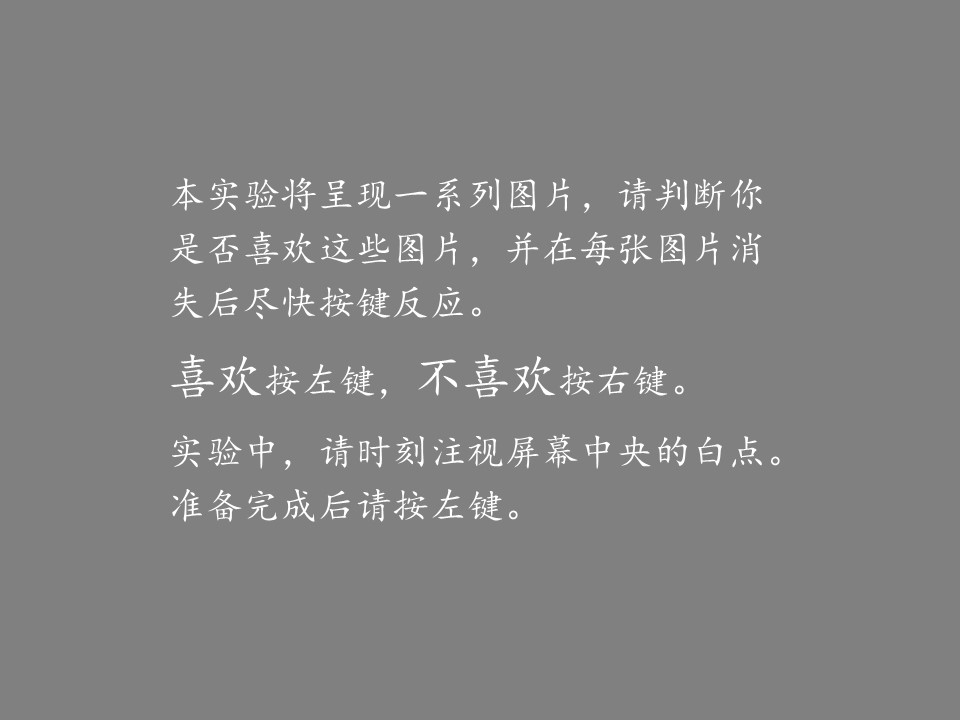
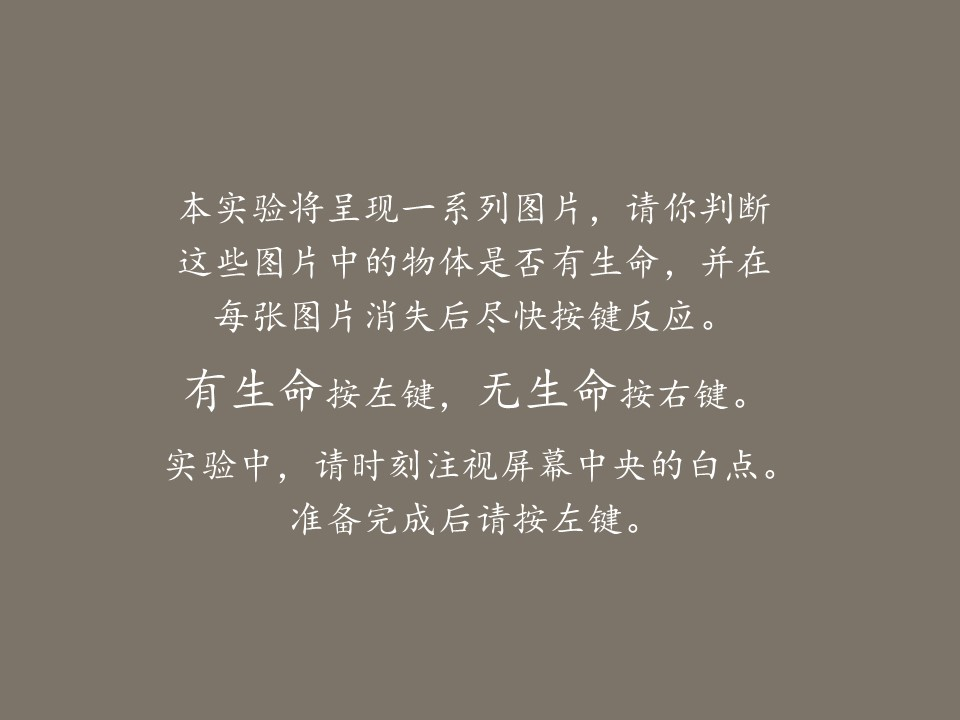
Modify time control in newbinMRItest.m

Changed region(s): [[0.1562, 0.2444, 0.8125, 0.7639]]

diff --git a/newbinMRItest.m b/newbinMRItest.m
@@ -19,9 +19,8 @@ if ~ismember(sessID, 1:1), error('sessID is a integer within [1:1]!');end
 nRun = 10;
 if ~ismember(runID, 1:nRun), error('runID is a integer within [1:10]!'); end
 
-
 %% Data dir 
-workDir = 'H:\NaturalImageData\stimTest';
+workDir = pwd;
 stimDir = fullfile(workDir,'images');
 % Make data dir
 dataDir = fullfile(workDir,'data');
@@ -36,7 +35,7 @@ testDir = fullfile(mriDir,'test');
 if ~exist(testDir,'dir'), mkdir(testDir),end
 
 % Make subject dir
-subDir = fullfile(mriDir,sprintf('sub%02d', subID));
+subDir = fullfile(testDir,sprintf('sub%02d', subID));
 if ~exist(subDir,'dir'), mkdir(subDir),end
 
 % Make session dir
@@ -54,7 +53,6 @@ fixOuterColor = [0 0 0]; % color of fixation circular ring
 whiteFixation = [255 255 255]; % color of fixation circular point
 redFixation = [255 0 0]; % color of fixation circular point
 
-
 % compute image pixel
 pixelPerMilimeterHor = 1024/390;
 pixelPerMilimeterVer = 768/295;
@@ -68,8 +66,7 @@ PsychDefaultSetup(2);% Setup PTB to 'featureLevel' of 2
 KbName('UnifyKeyNames'); % For cross-platform compatibility of keynaming
 startKey = KbName('s');
 escKey = KbName('ESCAPE');
-sameKey = KbName('1!'); % Left hand:1!,2@
-diffKey = KbName('3#'); % Right hand: 3#,4$ 
+cueKey = KbName('1!'); % Left hand:1!,2@
 
 %% Screen setting
 Screen('Preference', 'SkipSyncTests', 2);
@@ -105,7 +102,7 @@ Screen('Flip', wptr);
 while KbCheck(); end
 while true
     [keyIsDown,~,keyCode] = KbCheck();
-    if keyIsDown && keyCode(sameKey), break;
+    if keyIsDown && keyCode(cueKey), break;
     end
 end
 % Show ready signal
@@ -149,7 +146,7 @@ tEnd = trial(:, 1) + 3;
 %% Parms for stimlus presentation and Trials
 flipInterval = Screen('GetFlipInterval', wptr);% get dur of frame
 onDur = 0.5 - 0.5*flipInterval; % on duration for a stimulus
-offDur = 2.5; % off duration for a stimulus
+% offDur = 2.5; % off duration for a stimulus
 beginDur = 2; % beigining fixation duration
 endDur = 2; % ending fixation duration
 
@@ -169,7 +166,7 @@ for t = 1:nTrial
         Screen('DrawDots', wptr, [xCenter,yCenter], fixInnerSize, whiteFixation , [], 2);
         
     elseif trial(t,2) == 1000 % show only red fixation
-        Screen('DrawDots', wptr, [xCenter,yCenter], fixOuterSize, fixOuterColor, [], 2);
+        Screen('DrawDots', wptr, [xCenter,yCenter], fixOuterSize, fixOuterColor, [], 2  );
         Screen('DrawDots', wptr, [xCenter,yCenter], fixInnerSize, redFixation , [], 2);
         
     else % show only red fixation
@@ -186,25 +183,17 @@ for t = 1:nTrial
     
     % Wait response
     while KbCheck(), end % empty the key buffer
-    while GetSecs - tFix < offDur
+    while GetSecs - tStart < tEnd(t)
         [keyIsDown, tKey, keyCode] = KbCheck();       
         if keyIsDown
             if keyCode(escKey), sca; return;
-            elseif keyCode(sameKey),   key = 1;
-            elseif keyCode(diffKey),   key = -1; 
+            elseif keyCode(cueKey),   key = 1;
             else, key = 0; 
             end
             rt = tKey - tFix; % reaction time
             trial(t, 4:5) = [key,rt];
-            break;
         end
     end
-    
-    % wait until tEnd
-    while GetSecs - tStart < tEnd(t)
-        [~, ~, keyCode] = KbCheck();
-        if keyCode(escKey), sca; return; end
-    end    
 end
 
 % Wait ending fixation

diff --git a/binMRItrain.m b/binMRItrain.m
@@ -20,7 +20,7 @@ if ~ismember(runID, 1:10), error('runID is a integer within [1:10]!'); end
 nRun = 10; 
 
 %% Data dir 
-workDir = 'D:\fMRI\BrainImageNet\stim';
+workDir = pwd;
 stimDir = fullfile(workDir,'images');
 designDir = fullfile(workDir,'designMatrix');
 
